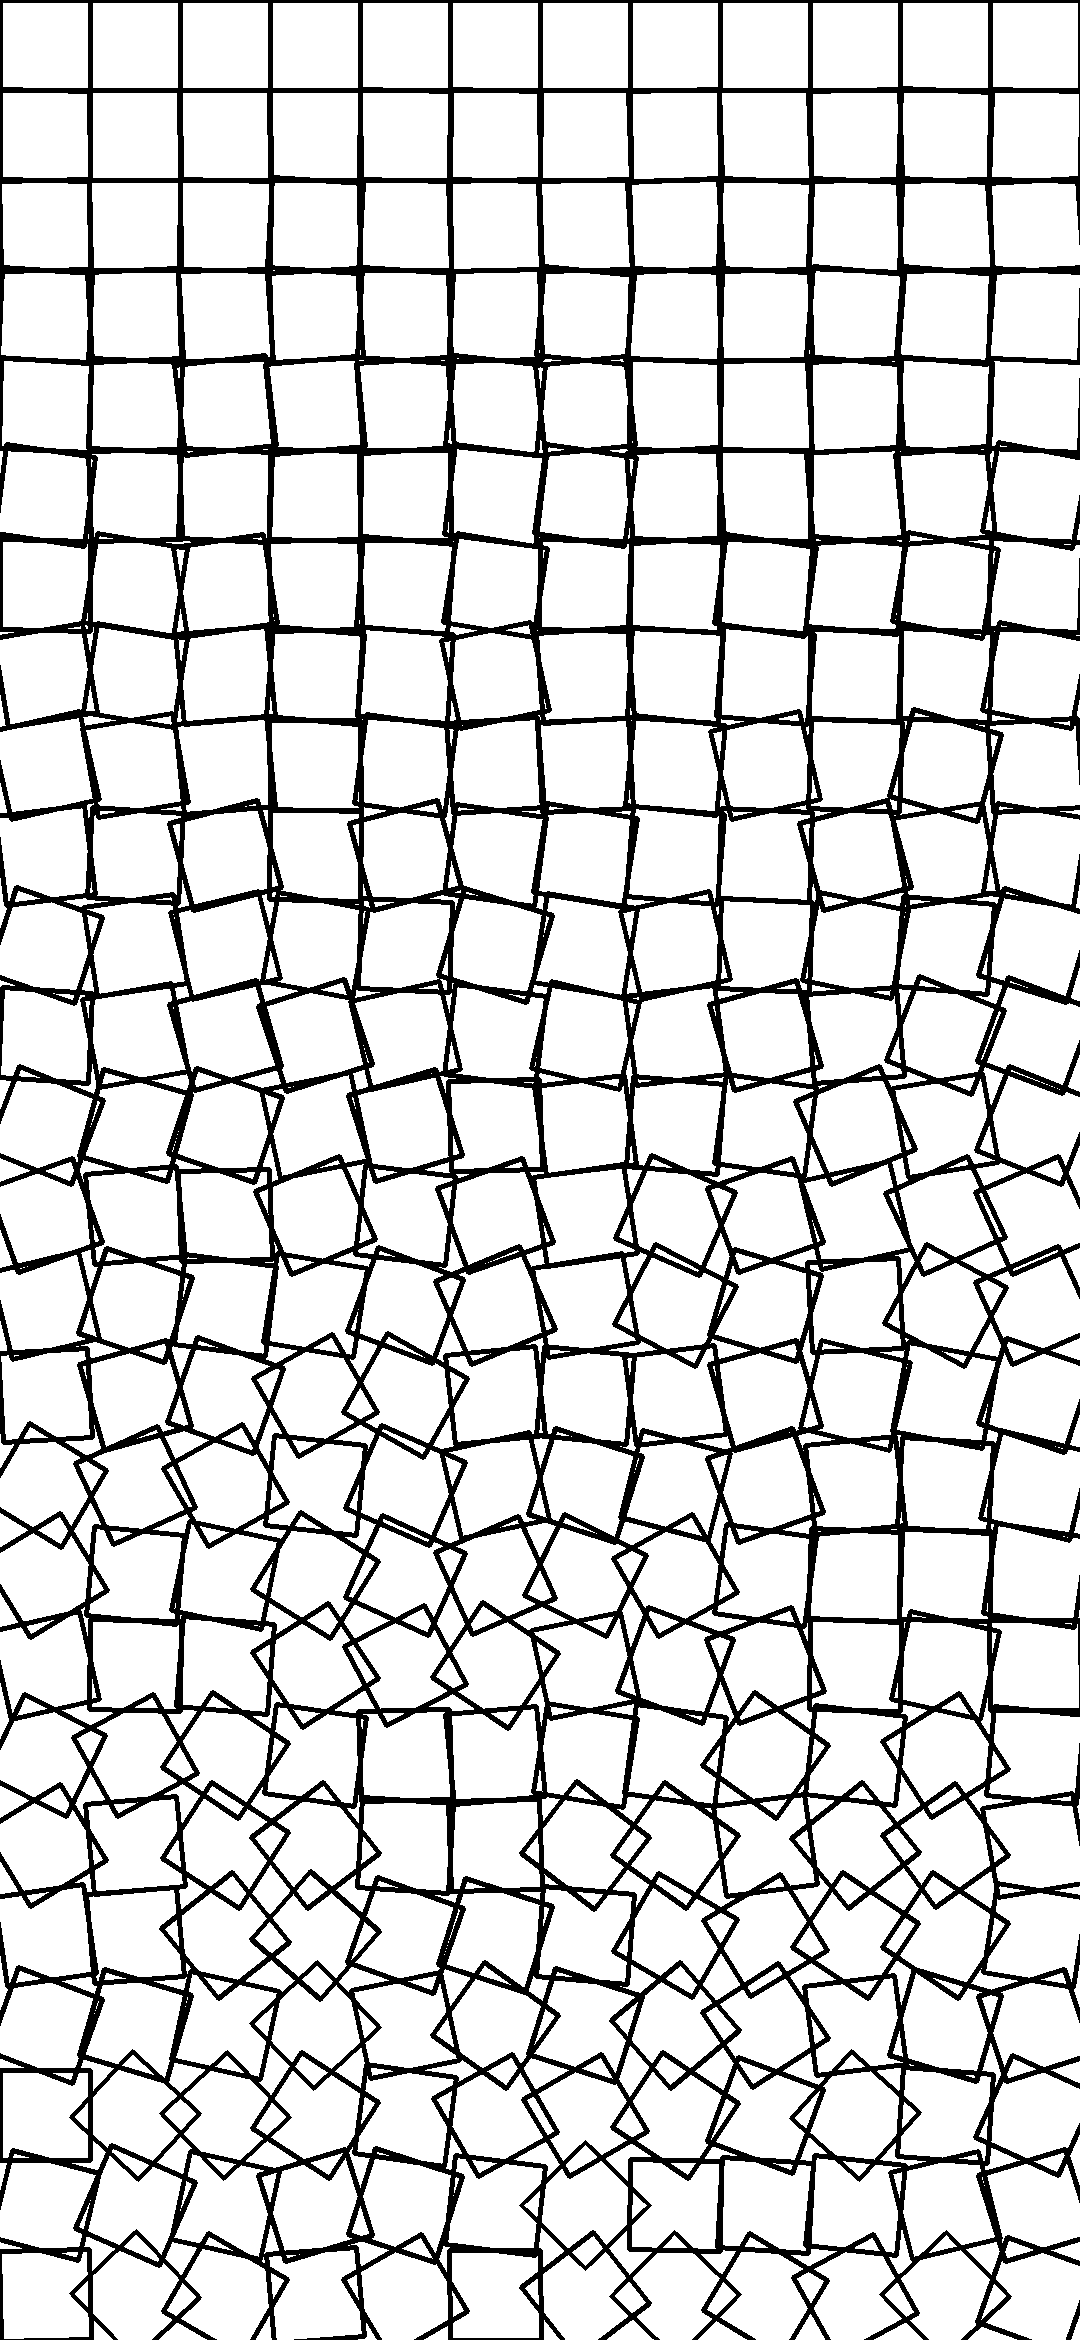
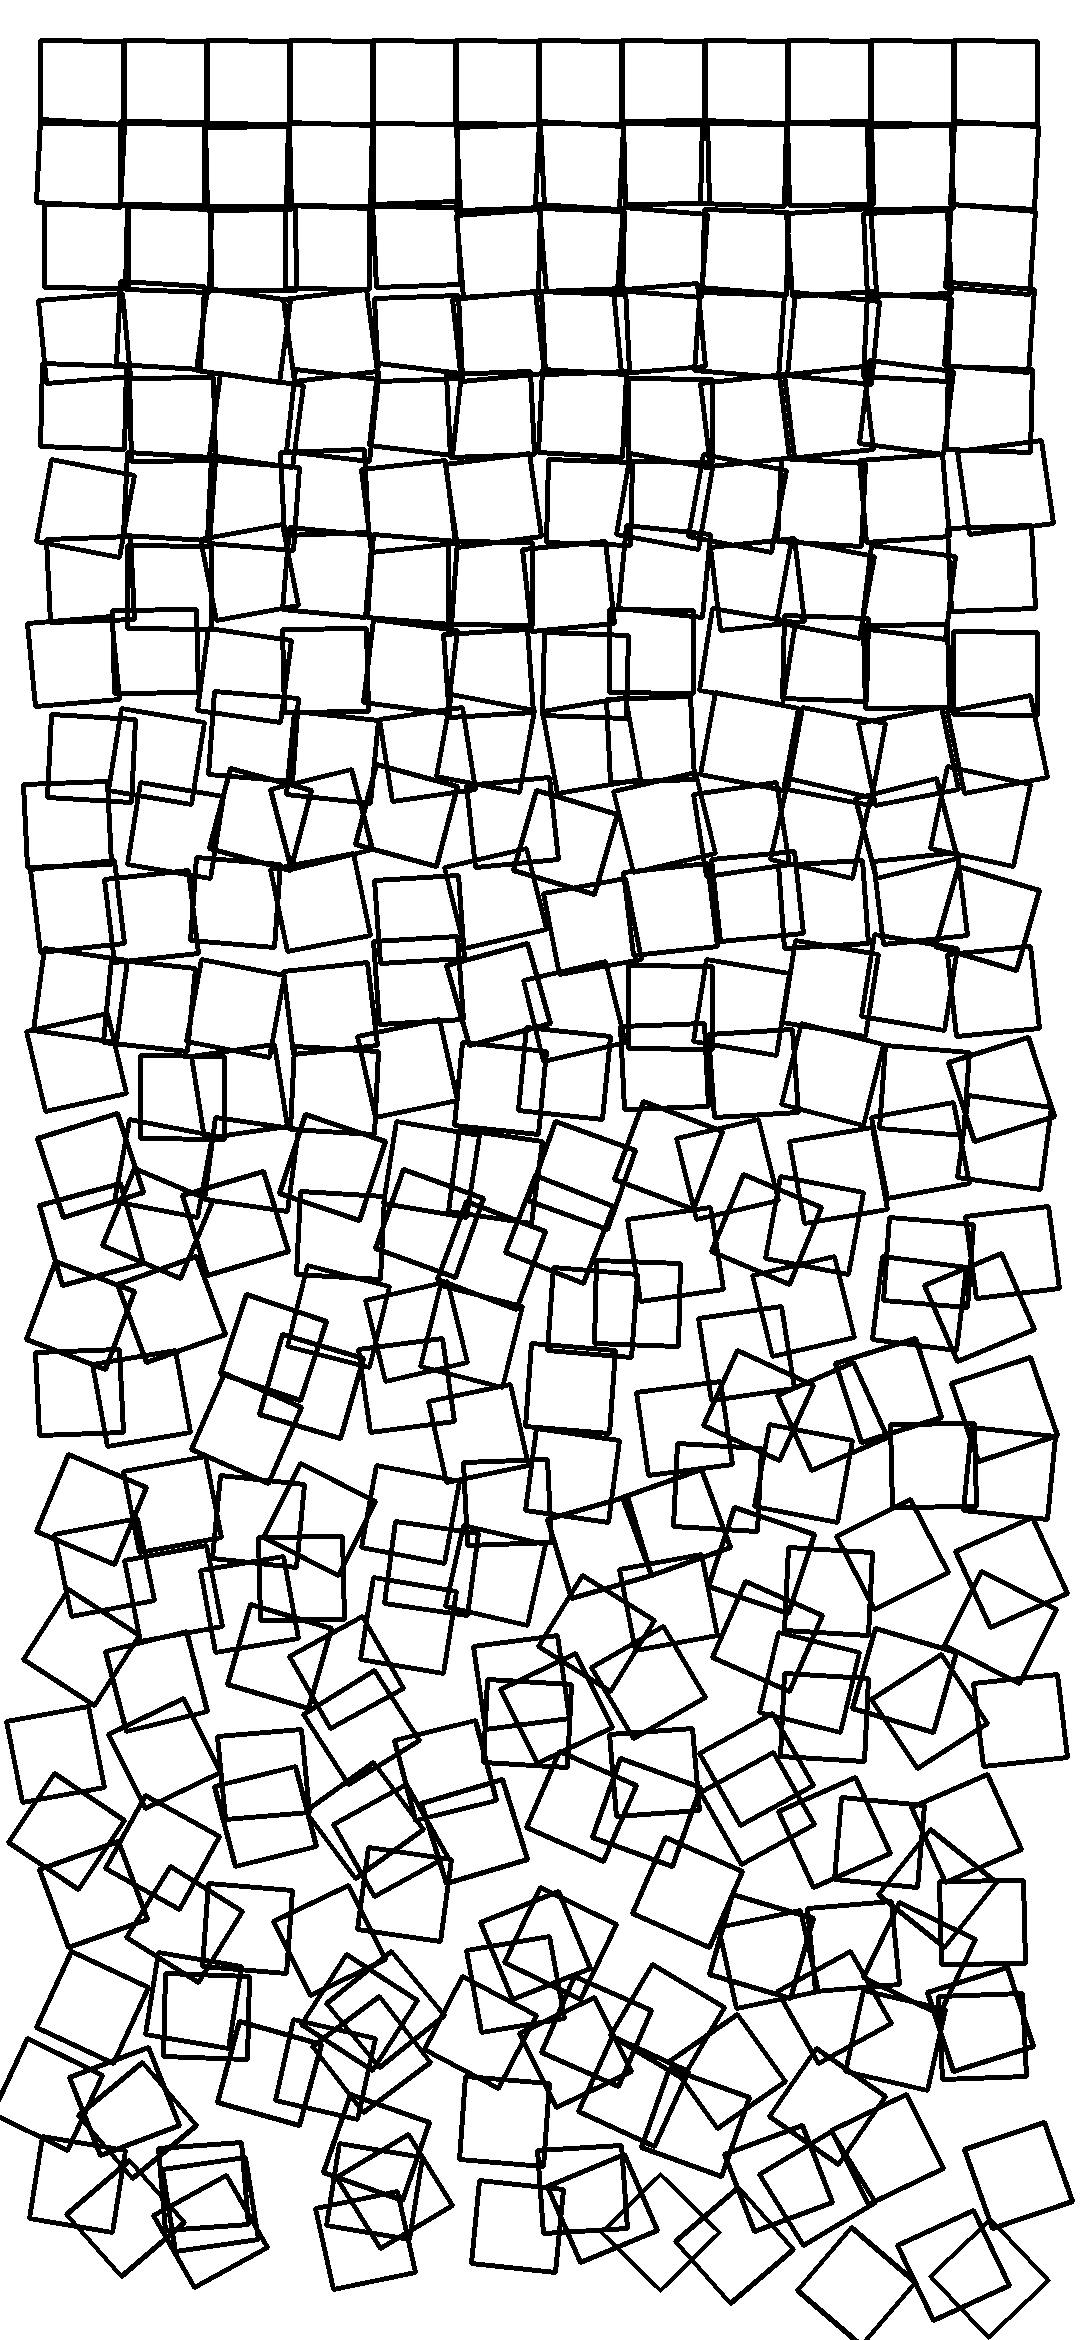
Add files via upload

Changed region(s): [[0.0, 0.0, 1.0, 1.0]]

diff --git a/main.py b/main.py
@@ -1,8 +1,8 @@
 import math
 import random
 
-import cv2
 import numpy as np
+import cv2
 
 img = np.zeros((2340, 1080, 1), np.uint8)
 img[:, :] = 255
@@ -27,15 +27,17 @@ def draw_angled_rec(x0, y0, width, height, angle, img, color, line_w):
     return img
 
 
-lado_q = int(img.shape[1] / 12)
+lado_q = img.shape[1] / 13
 
-embaralhador = 0
-for y in range(0, img.shape[0], int(lado_q)):
-    for x in range(0, img.shape[1], int(lado_q)):
-        img = draw_angled_rec(x + lado_q // 2, y + lado_q // 2,
+emb = 0
+for y in range(int(lado_q//2), img.shape[0]-int(lado_q), int(lado_q)):
+    for x in range(int(lado_q//2), img.shape[1]-int(lado_q), int(lado_q)):
+        img = draw_angled_rec(random.randint((x + lado_q // 2) - emb, (x + lado_q // 2) + emb),
+                              random.randint((y + lado_q // 2) -
+                                             emb, (y + lado_q // 2) + emb),
                               lado_q, lado_q,
-                              random.uniform(float(f"-{embaralhador}"), embaralhador),
+                              random.uniform(float(f"-{emb}"), emb),
                               img, 0, 4)
-    embaralhador += 2
+    emb += random.randint(0, 3)
 
 cv2.imwrite("Lindomar Rodrigues, Schotter.png", img)
